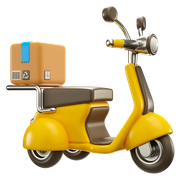
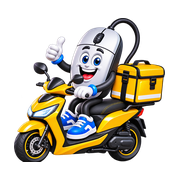
Nouvelle mascotte et icônes propres à l'application
Image fournie par la direction : remplace la mascotte générique
(connexion, contact, mot de passe oublié, onglet central) et les icônes
(PWA 192/512, apple-icon, favicon). Accessoire animé de la page de
connexion retiré : l'image porte déjà le thème de l'app.

diff --git a/src/components/auth/kit/themeAuth.ts b/src/components/auth/kit/themeAuth.ts
@@ -47,7 +47,7 @@ export const THEME_AUTH: ThemeAuth = {
   "accentOmbre": "rgba(249,115,22,0.38)",
   "decor": "route",
   "posture": "roule",
-  "accessoire": "casque",
+  "accessoire": "aucun",
   "confettis": [
     "#f97316",
     "#fdba74",
